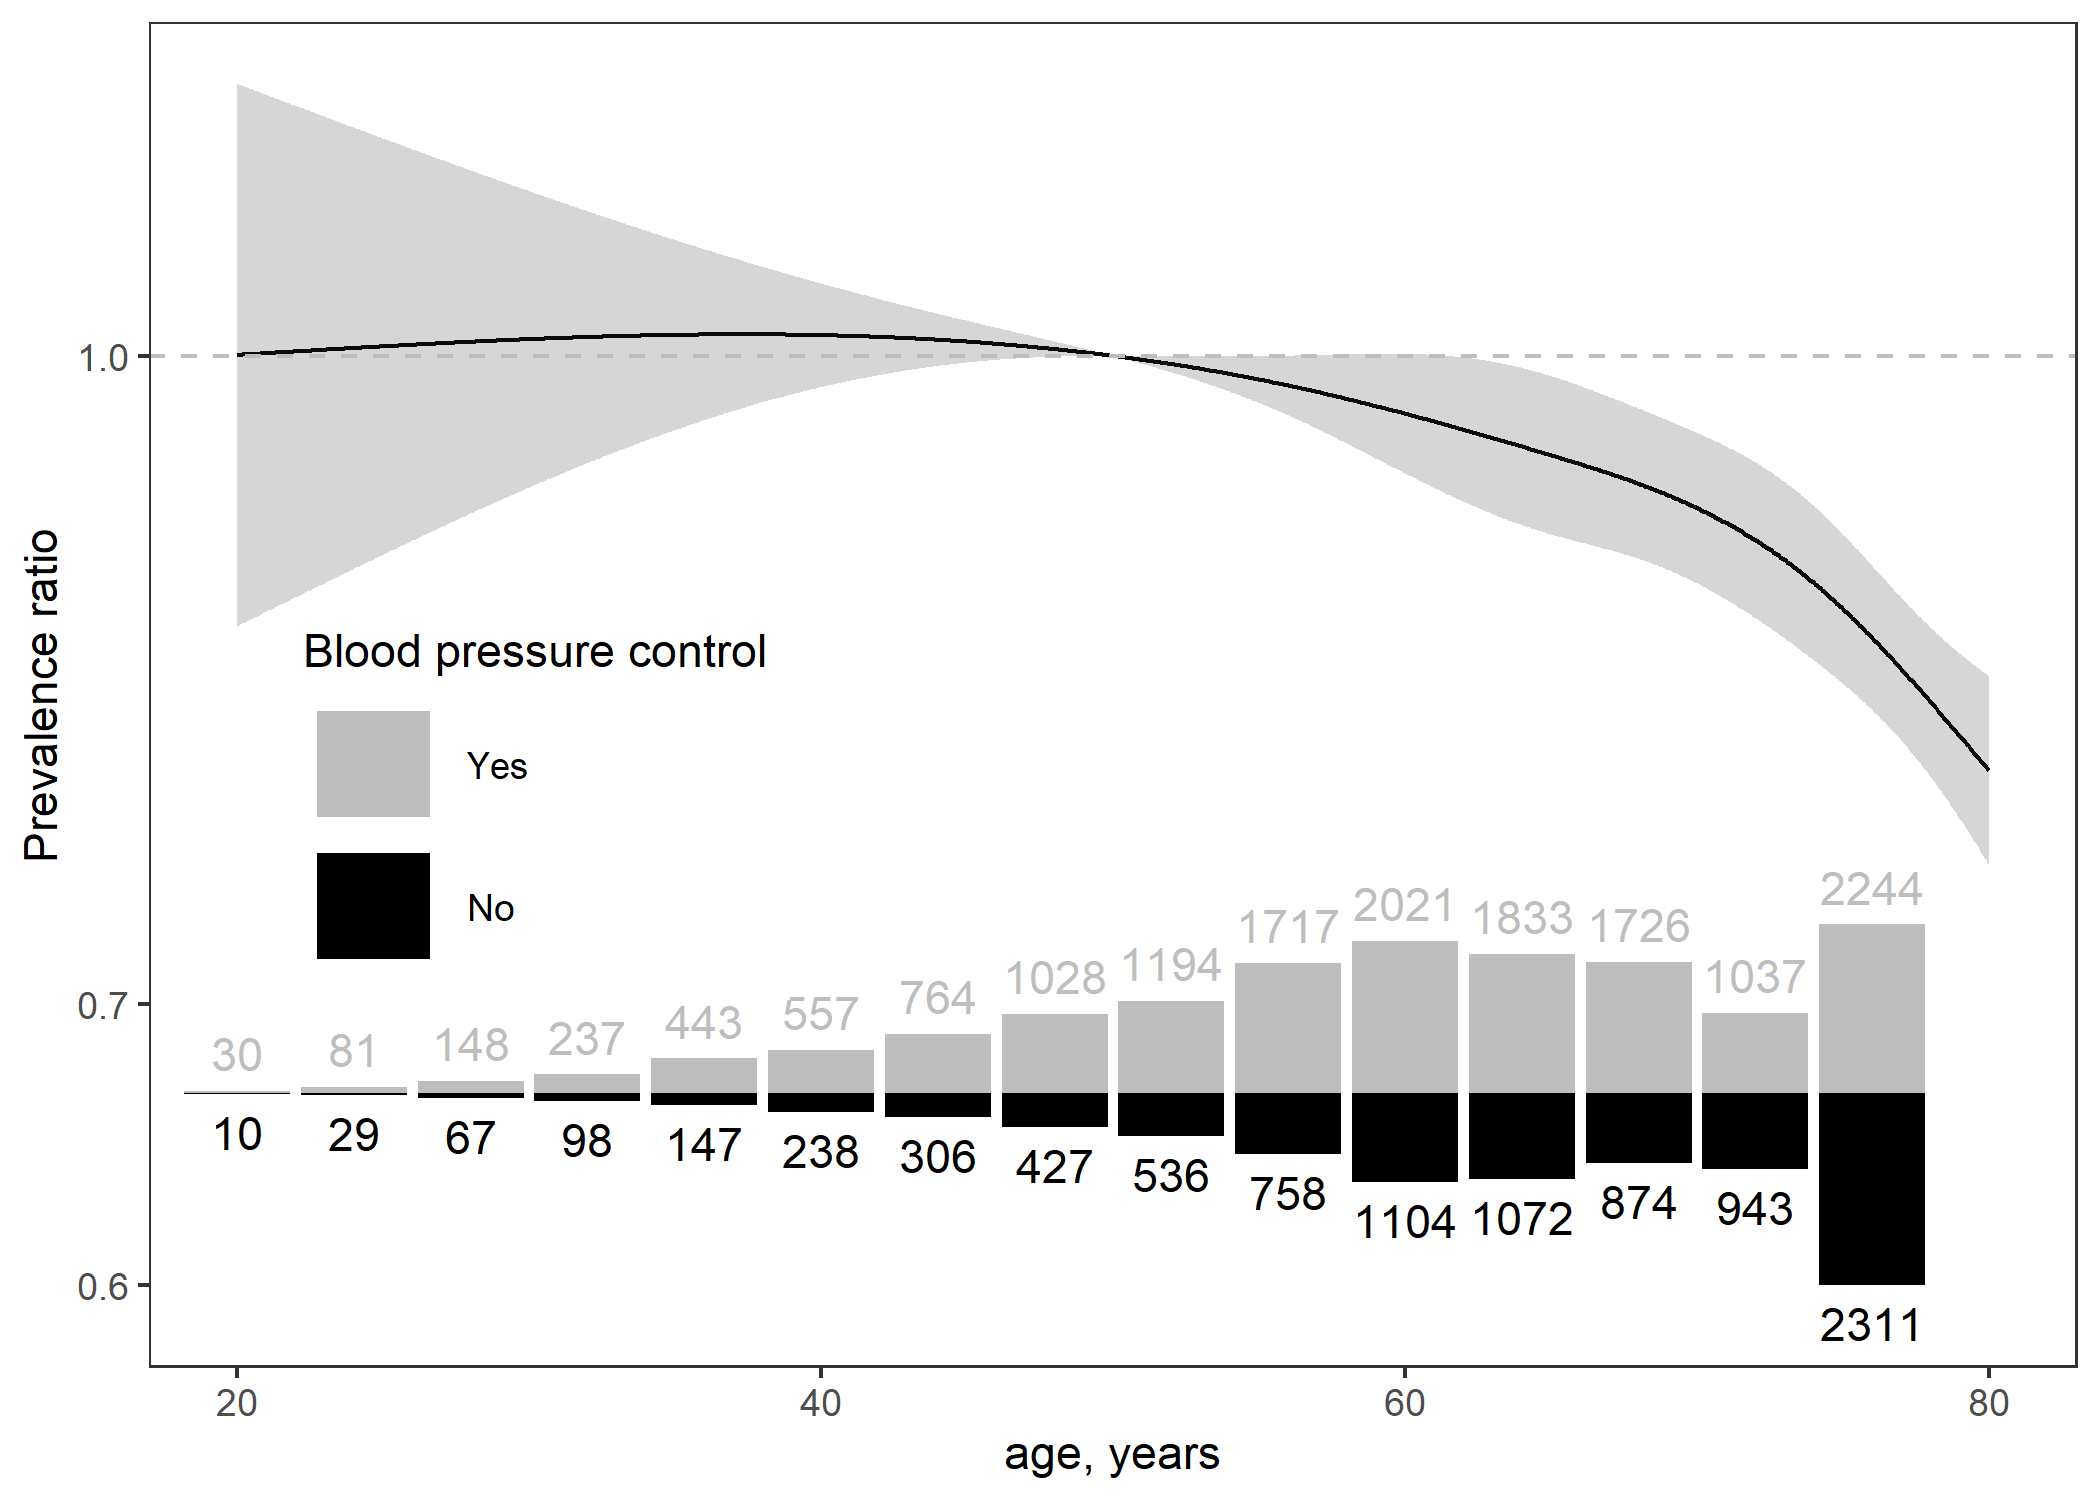
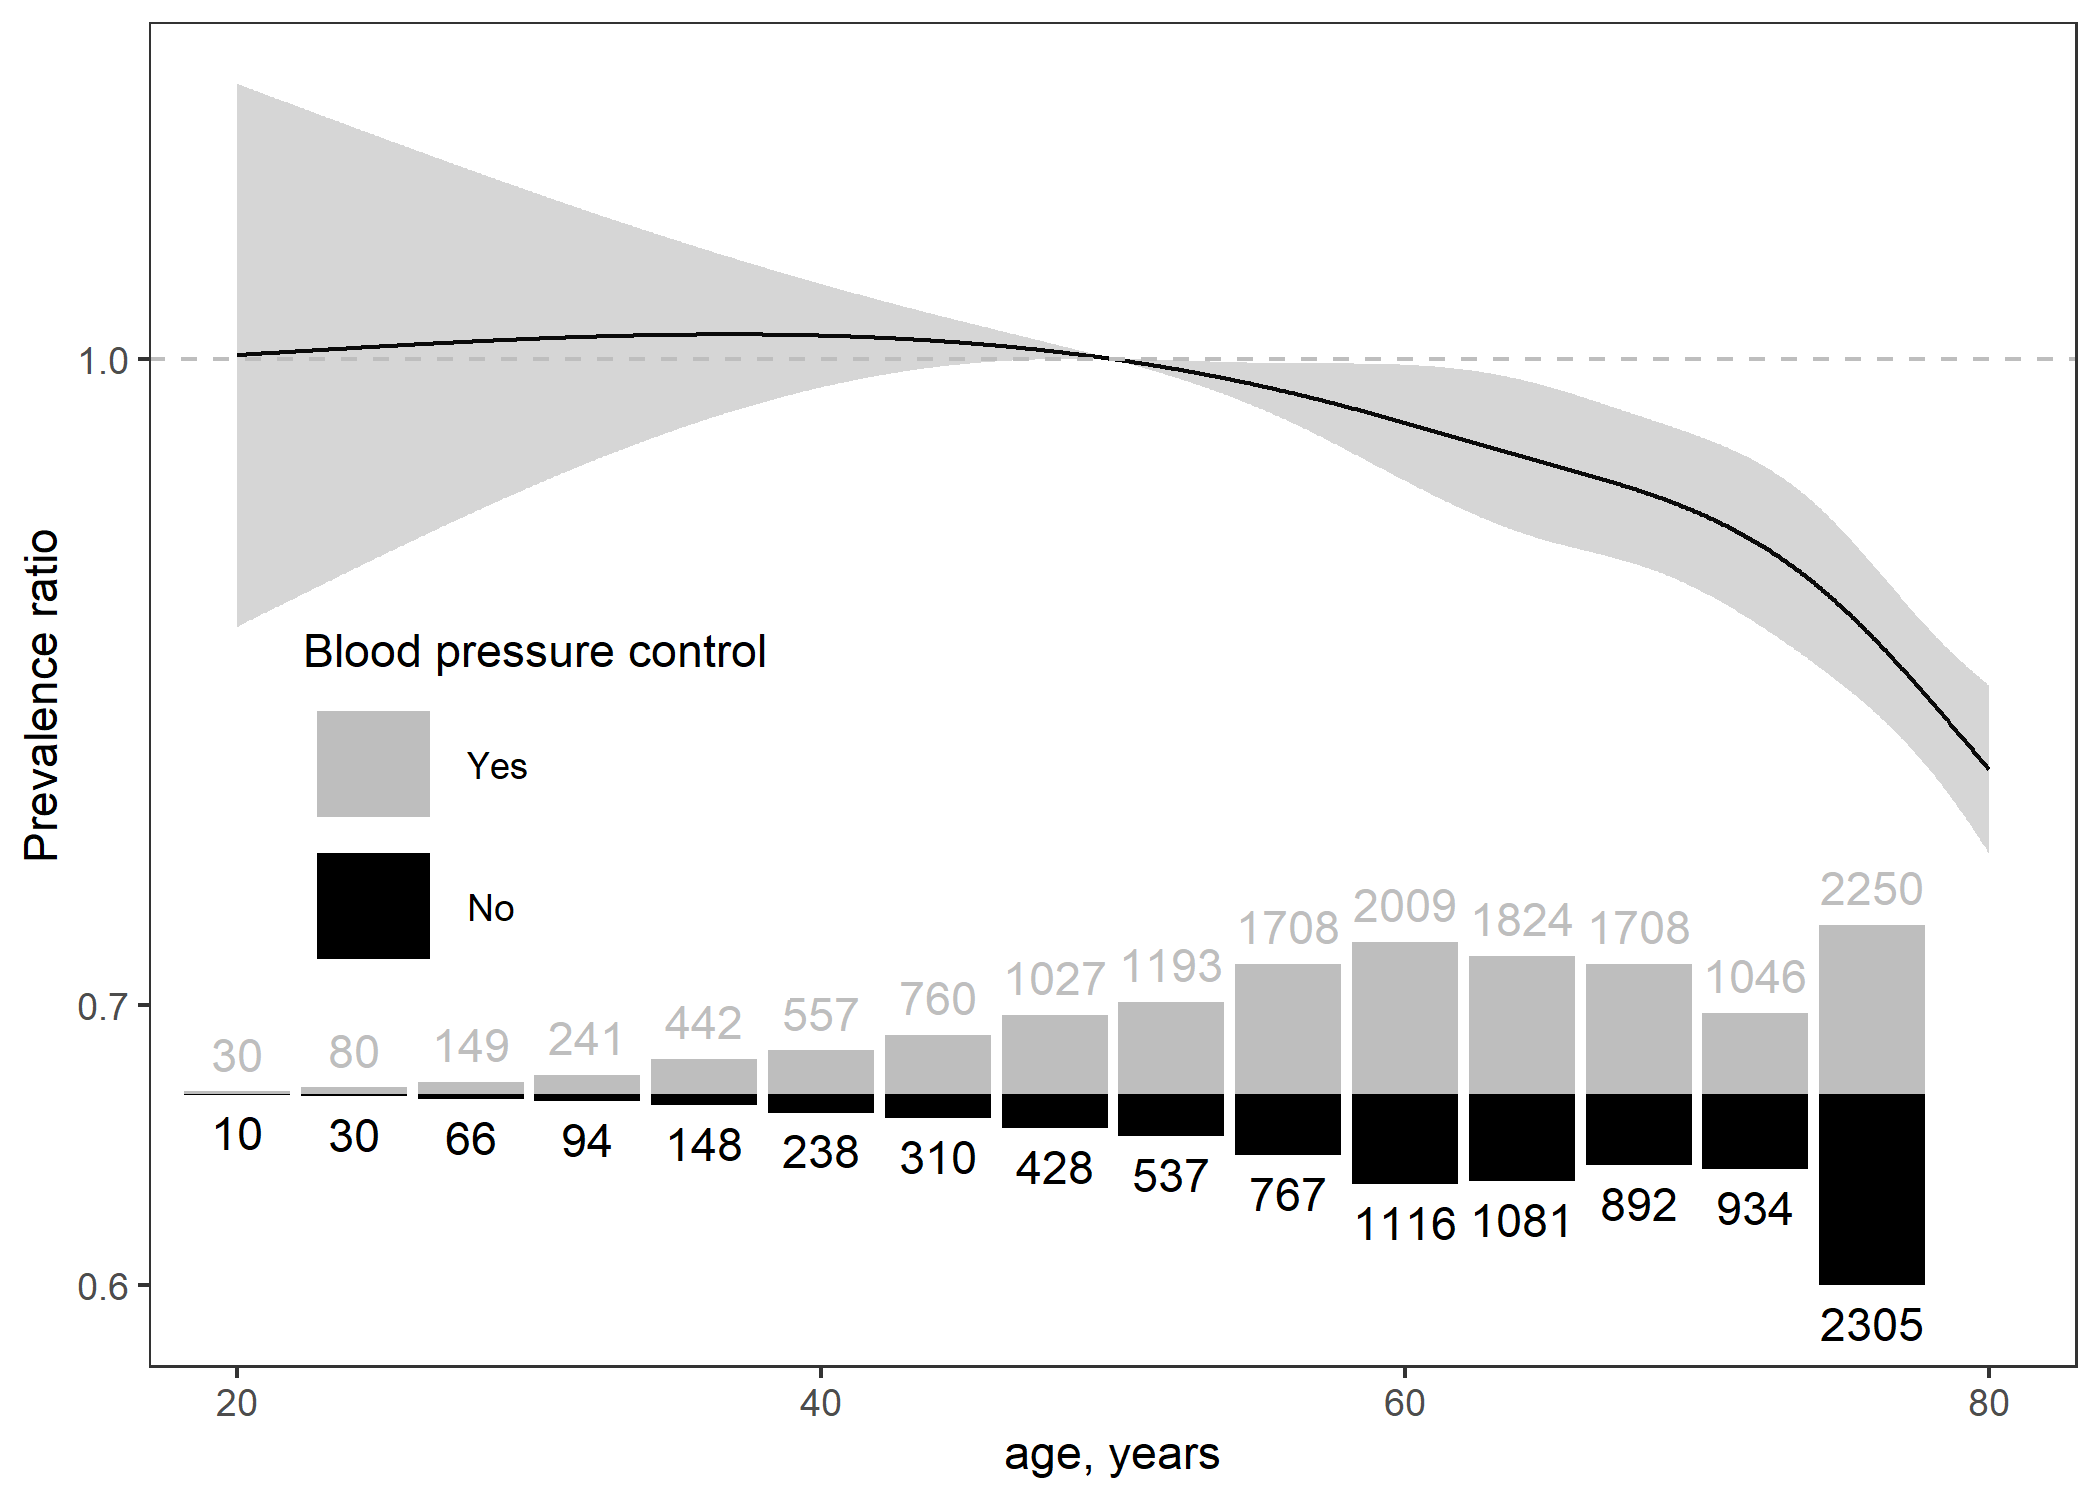
knit readme

diff --git a/README.md b/README.md
@@ -82,7 +82,7 @@ data_nhanes_impute[[1]]
 #>  7    72        160         71.3
 #>  8    80        109.        53.3
 #>  9    43        140         82.7
-#> 10    65        133.        74.7
+#> 10    65        139.        66  
 #> # ... with 4,786 more rows
 ```
 
@@ -118,7 +118,7 @@ data_nhanes_impute[[1]]
 #>  7    72        160         71.3          0
 #>  8    80        109.        53.3          1
 #>  9    43        140         82.7          0
-#> 10    65        133.        74.7          1
+#> 10    65        139.        66            1
 #> # ... with 4,786 more rows
 ```
 
@@ -141,11 +141,11 @@ summary(fits[[1]])
 #> 
 #>  Coefficients:
 #>                  Estimate  Std.err    Wald Pr(>|W|)    
-#> (Intercept)       0.70057  0.06461 117.586   <2e-16 ***
-#> ns(age, df = 4)1 -0.04516  0.05940   0.578   0.4471    
-#> ns(age, df = 4)2 -0.09499  0.05541   2.939   0.0865 .  
-#> ns(age, df = 4)3 -0.17385  0.14585   1.421   0.2332    
-#> ns(age, df = 4)4 -0.25360  0.02658  91.038   <2e-16 ***
+#> (Intercept)       0.72264  0.06356 129.255   <2e-16 ***
+#> ns(age, df = 4)1 -0.07514  0.05841   1.655   0.1983    
+#> ns(age, df = 4)2 -0.10393  0.05473   3.606   0.0576 .  
+#> ns(age, df = 4)3 -0.19955  0.14387   1.924   0.1654    
+#> ns(age, df = 4)4 -0.24272  0.02649  83.947   <2e-16 ***
 #> ---
 #> Signif. codes:  0 '***' 0.001 '**' 0.01 '*' 0.05 '.' 0.1 ' ' 1
 #> 
@@ -153,7 +153,7 @@ summary(fits[[1]])
 #> Estimated Scale Parameters:
 #> 
 #>             Estimate  Std.err
-#> (Intercept)   0.2276 0.002028
+#> (Intercept)   0.2278 0.002018
 #> Number of clusters:   4796  Maximum cluster size: 1
 ```
 
@@ -205,18 +205,18 @@ spline_pool <- tibble(
 
 spline_pool
 #> # A tibble: 1,000 x 5
-#>        x     pred     se ci_lwr ci_upr
-#>    <dbl>    <dbl>  <dbl>  <dbl>  <dbl>
-#>  1  20   0.000447 0.0761 -0.149  0.150
-#>  2  20.1 0.000504 0.0759 -0.148  0.149
-#>  3  20.1 0.000561 0.0757 -0.148  0.149
-#>  4  20.2 0.000618 0.0755 -0.147  0.149
-#>  5  20.2 0.000675 0.0753 -0.147  0.148
-#>  6  20.3 0.000732 0.0750 -0.146  0.148
-#>  7  20.4 0.000789 0.0748 -0.146  0.147
-#>  8  20.4 0.000846 0.0746 -0.145  0.147
-#>  9  20.5 0.000903 0.0744 -0.145  0.147
-#> 10  20.5 0.000960 0.0742 -0.144  0.146
+#>        x    pred     se ci_lwr ci_upr
+#>    <dbl>   <dbl>  <dbl>  <dbl>  <dbl>
+#>  1  20   0.00215 0.0764 -0.148  0.152
+#>  2  20.1 0.00221 0.0762 -0.147  0.152
+#>  3  20.1 0.00227 0.0760 -0.147  0.151
+#>  4  20.2 0.00233 0.0758 -0.146  0.151
+#>  5  20.2 0.00239 0.0756 -0.146  0.151
+#>  6  20.3 0.00245 0.0754 -0.145  0.150
+#>  7  20.4 0.00251 0.0752 -0.145  0.150
+#>  8  20.4 0.00256 0.0749 -0.144  0.149
+#>  9  20.5 0.00262 0.0747 -0.144  0.149
+#> 10  20.5 0.00268 0.0745 -0.143  0.149
 #> # ... with 990 more rows
 ```
 
